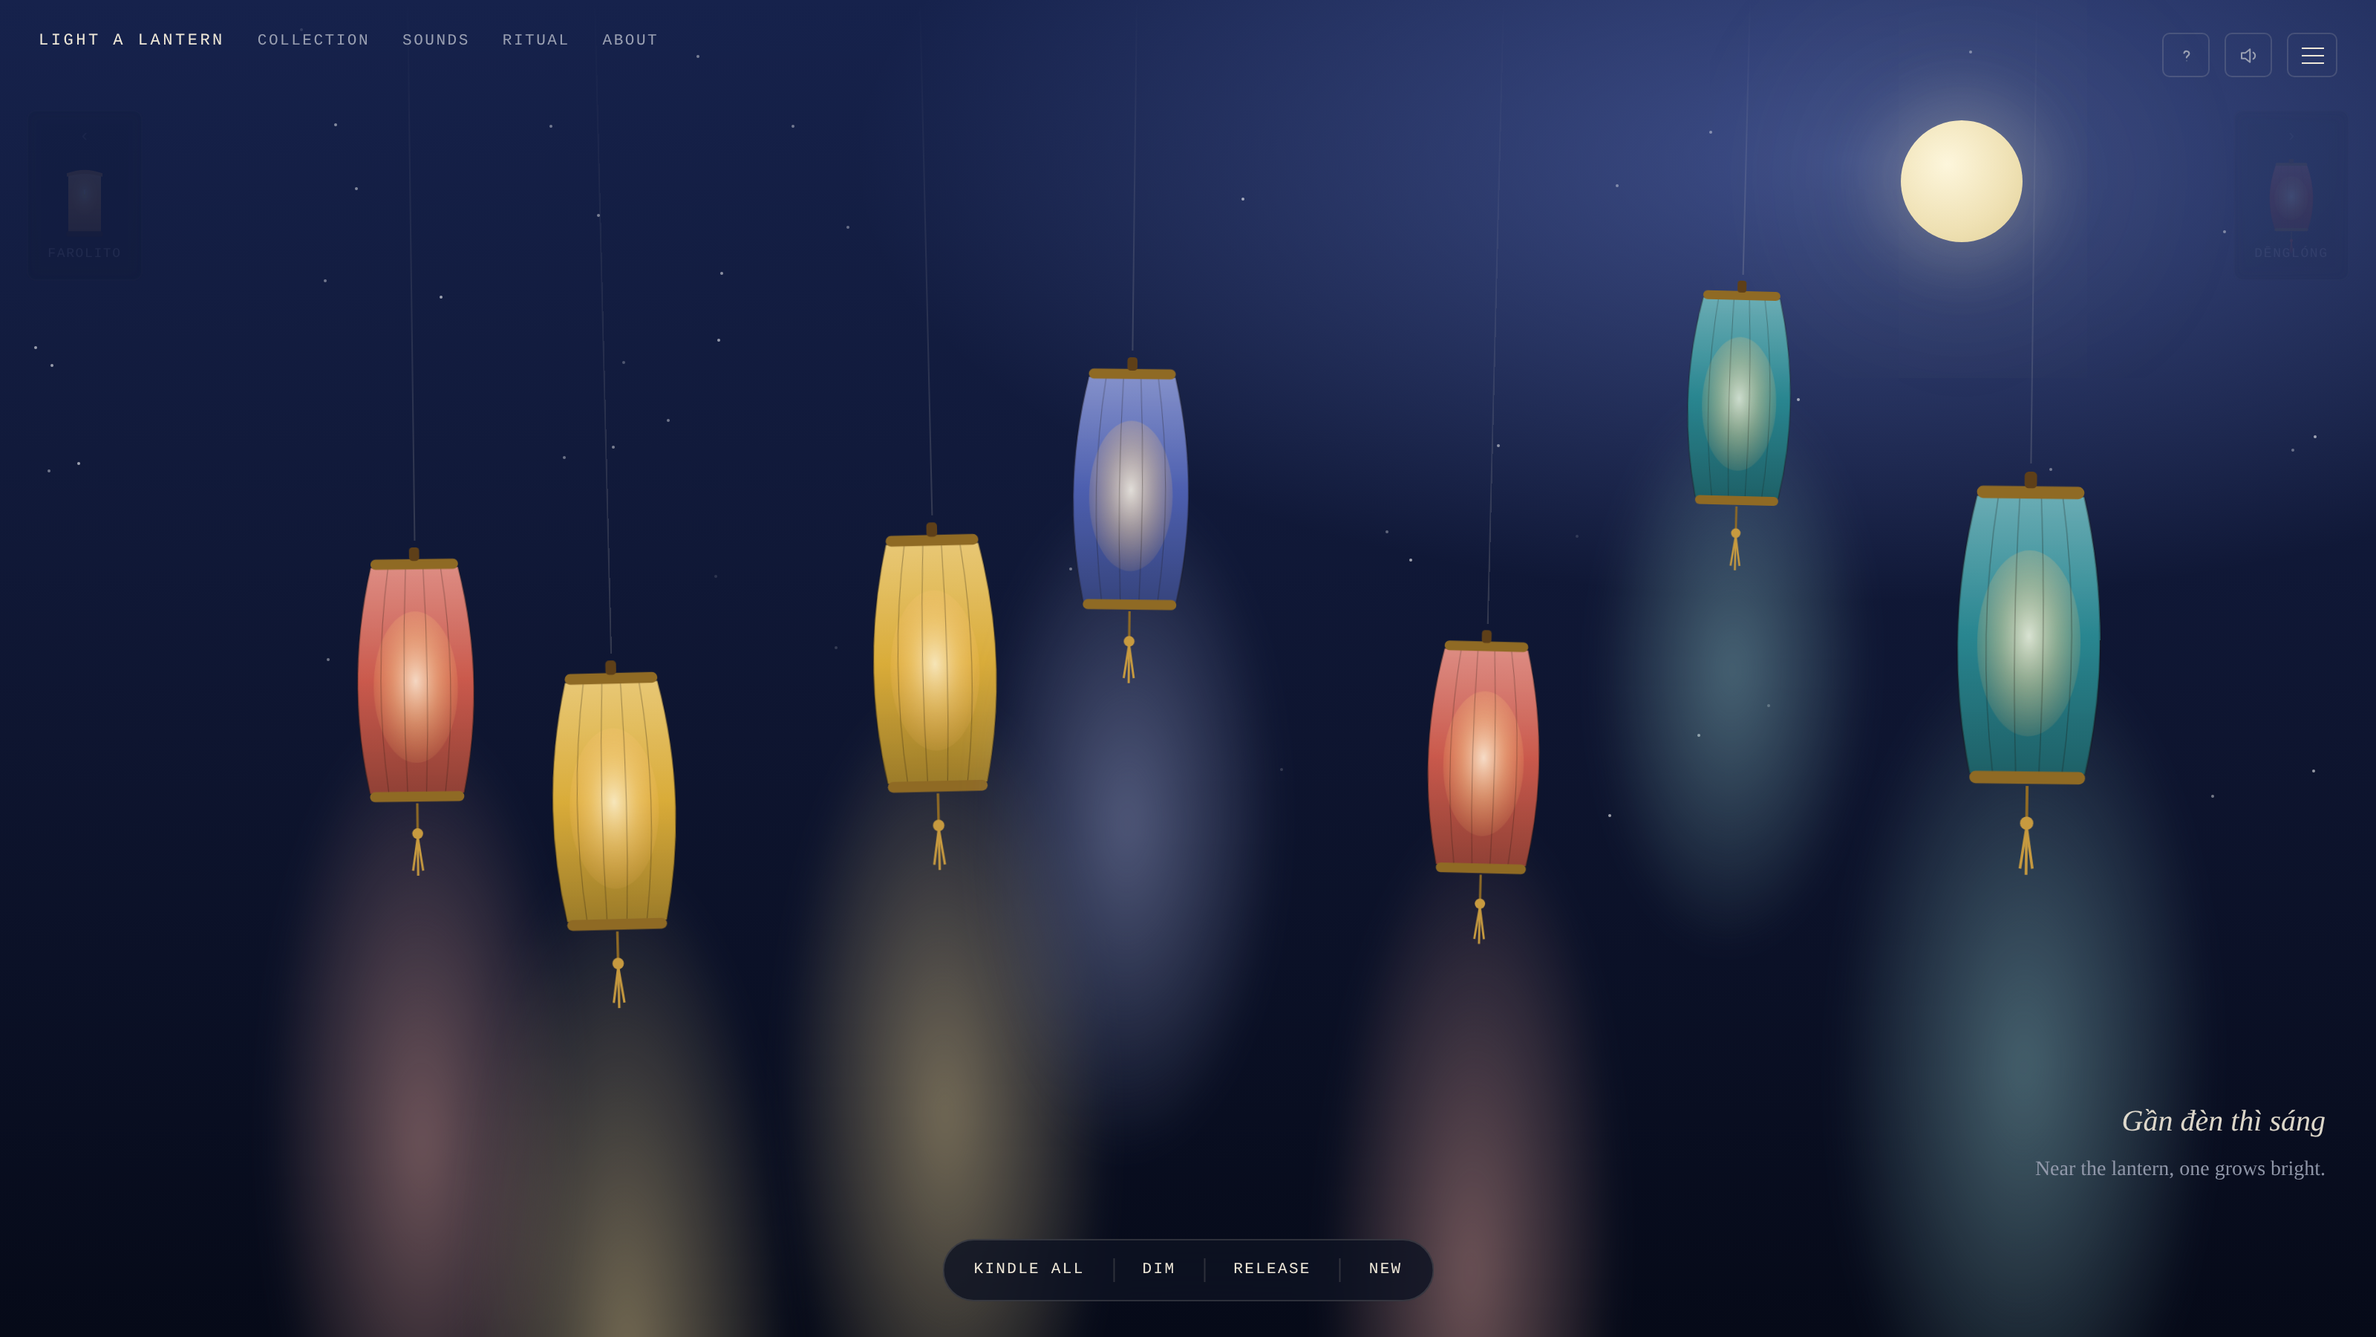
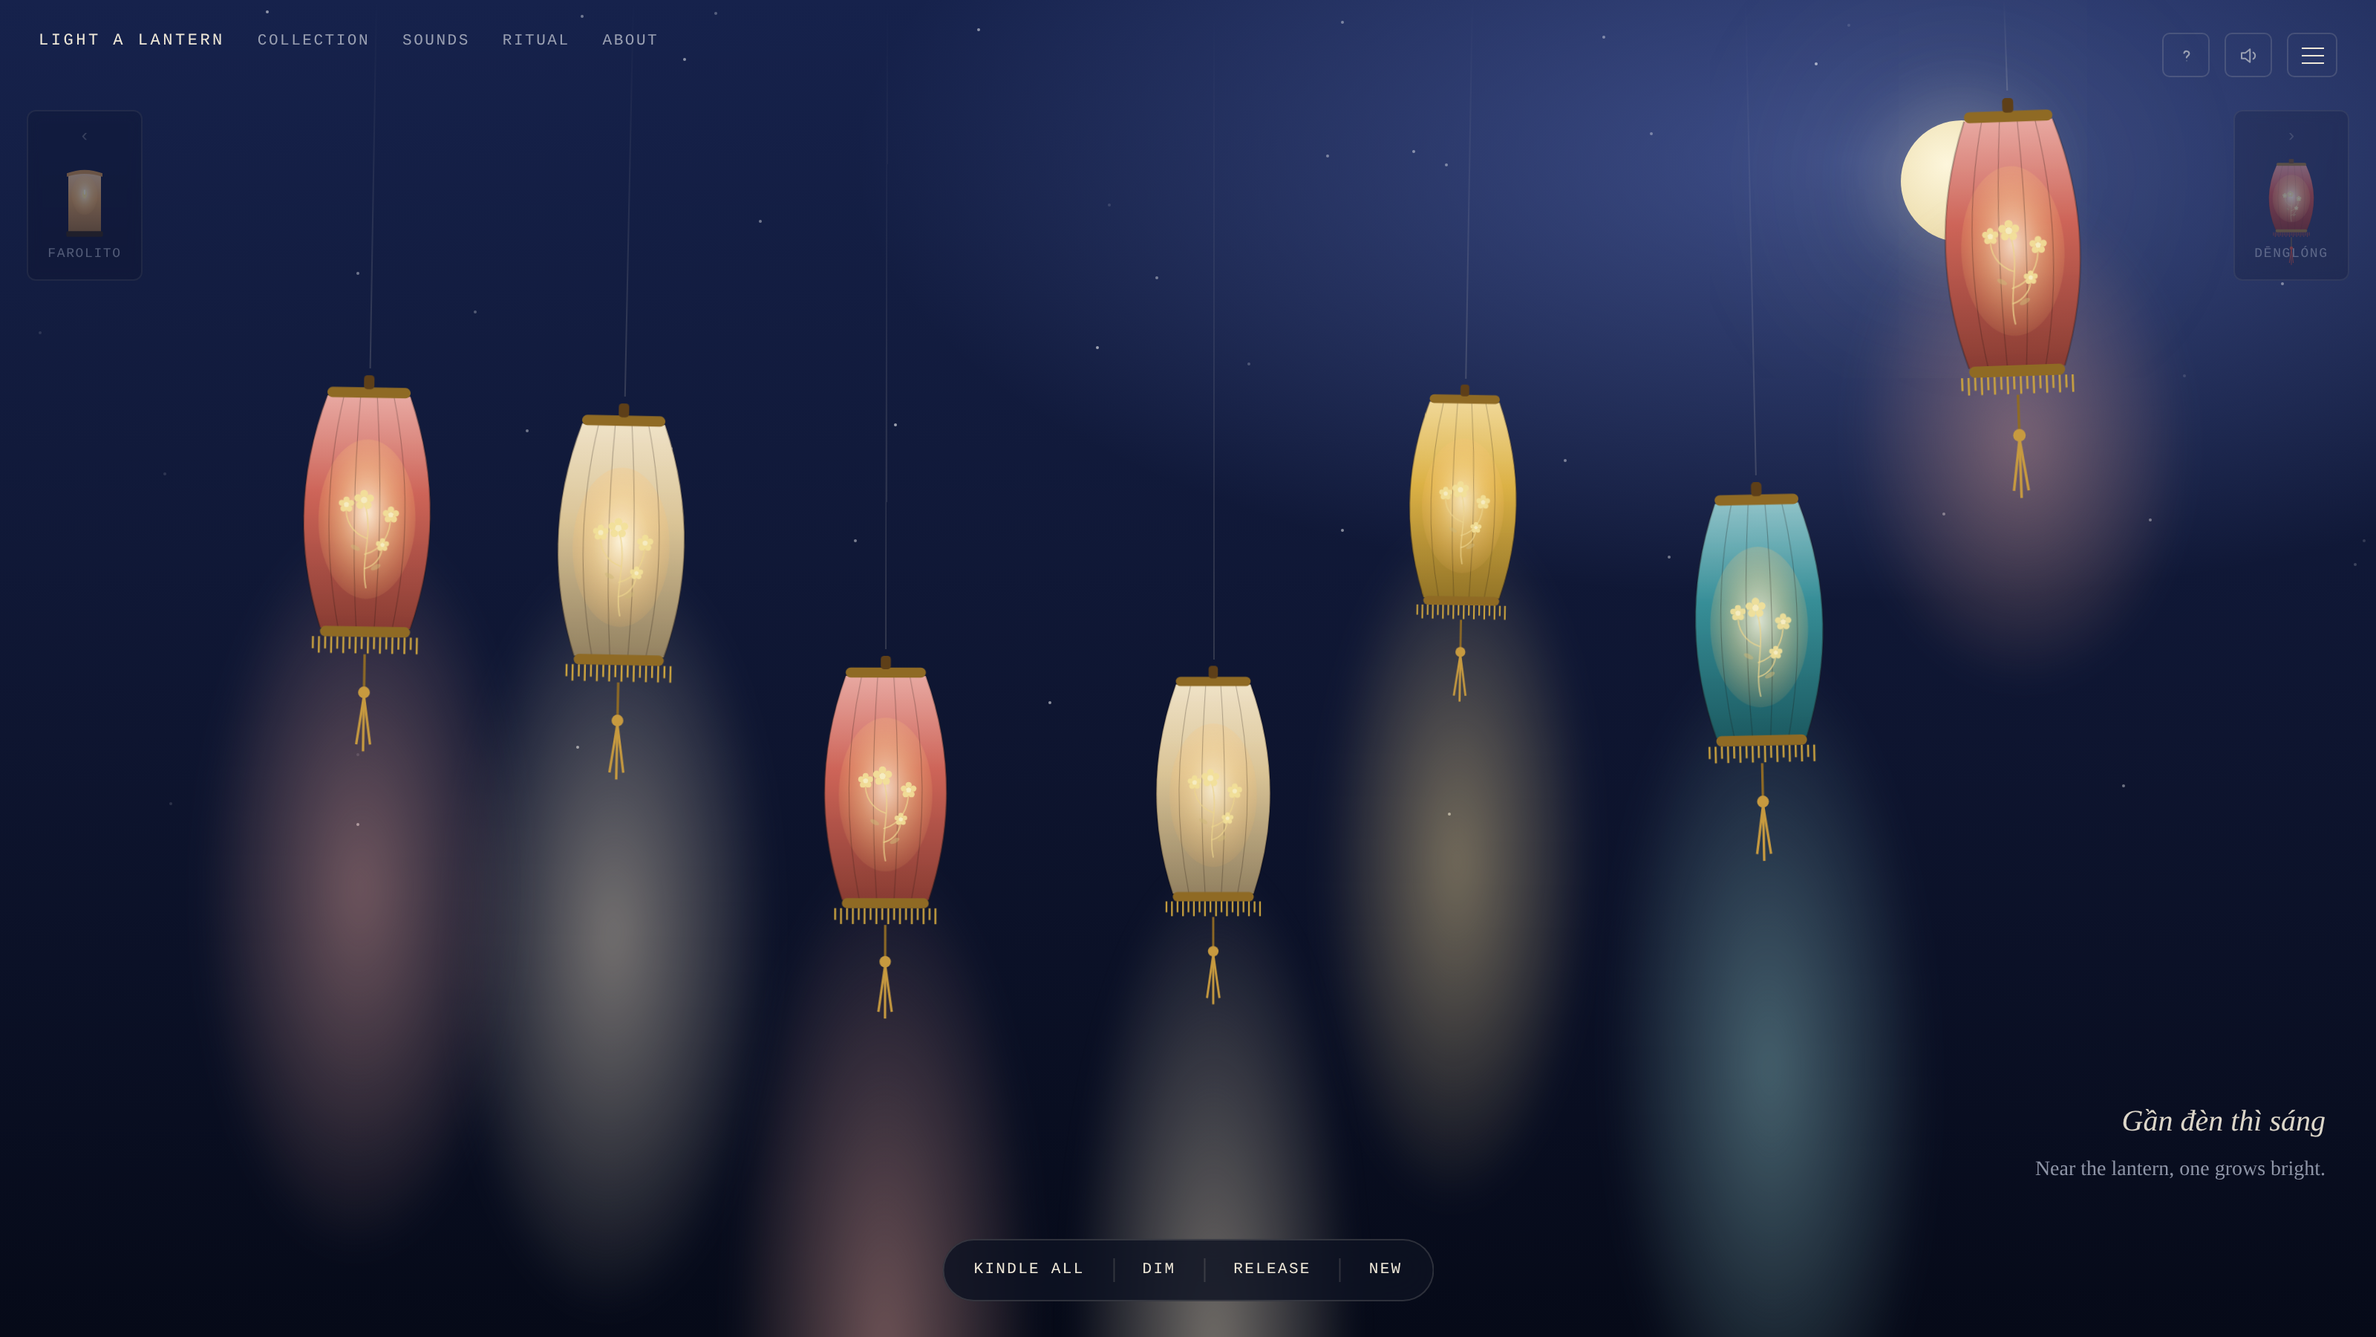
Ornate lantern pass: plump bodies, ombre, fringe, floral motifs
Reworks the silk-barrel lanterns toward a richer, decorative look:
- stronger two-tone ombre gradient (bright crown → deep saturated base)
- plumper rounded bodies (hoian, chinese, chochin, korean)
- a gold floral sprig painted on the silk (glows when lit, dims when unlit)
- a bristle fringe under the bottom cap + longer tassels

Adds shared helpers (fringe, flower, sprig) and refreshes the README hero
to show the new look. Geometric cultures keep their own silhouettes.

Claude-Session: https://claude.ai/code/session_01529QJMieJQpXzKapniX34V

diff --git a/index.html b/index.html
@@ -506,29 +506,38 @@
   let svgSeq=0;
   function lanternSVG(kind, silk){
     const id=++svgSeq, cx=60;
-    const defs = `<defs><linearGradient id="g${id}" x1="0" y1="0" x2="0" y2="1"><stop offset="0%" stop-color="${lighten(silk,28)}"/><stop offset="50%" stop-color="${silk}"/><stop offset="100%" stop-color="${darken(silk,28)}"/></linearGradient>`
+    // stronger two-tone ombre: bright warm crown fading into a deep saturated base
+    const defs = `<defs><linearGradient id="g${id}" x1="0" y1="0" x2="0" y2="1"><stop offset="0%" stop-color="${lighten(silk,44)}"/><stop offset="42%" stop-color="${lighten(silk,6)}"/><stop offset="100%" stop-color="${darken(silk,32)}"/></linearGradient>`
       + `<radialGradient id="c${id}" cx="50%" cy="46%" r="62%"><stop offset="0%" stop-color="rgba(255,247,225,0.94)"/><stop offset="45%" stop-color="rgba(255,216,150,0.5)"/><stop offset="100%" stop-color="rgba(255,180,90,0)"/></radialGradient></defs>`;
     const core=(cy,rx,ry)=>`<ellipse class="core" cx="60" cy="${cy}" rx="${rx}" ry="${ry}" fill="url(#c${id})"/>`;
     const goldCap=(x,y,w)=>`<rect x="${x}" y="${y}" width="${w}" height="6" rx="3" fill="#8f6a24"/>`;
     const barrel=(top,bot,topH,halfW,botH)=>{const mid=(top+bot)/2;return `M${cx-topH},${top} Q ${cx-halfW},${mid} ${cx-botH},${bot} L ${cx+botH},${bot} Q ${cx+halfW},${mid} ${cx+topH},${top} Z`;};
-    const vribs=(top,bot,topH,halfW,botH)=>{const mid=(top+bot)/2;let r="";[-1,-0.6,-0.2,0.2,0.6,1].forEach(f=>{r+=`<path d="M${(cx+f*topH).toFixed(1)},${top} Q ${(cx+f*halfW).toFixed(1)},${mid} ${(cx+f*botH).toFixed(1)},${bot}" fill="none" stroke="rgba(20,12,8,0.3)" stroke-width="${Math.abs(f)>0.9?0.9:0.5}"/>`;});return r;};
-    const tassel=(y,col)=>{const c=col||"#c79a3f";return `<line x1="60" y1="${y}" x2="60" y2="${y+16}" stroke="#8f6a24" stroke-width="1.4"/><circle cx="60" cy="${y+18}" r="3.2" fill="${c}"/><g stroke="${c}" stroke-width="1.3"><line x1="60" y1="${y+20}" x2="57" y2="${y+40}"/><line x1="60" y1="${y+20}" x2="60" y2="${y+43}"/><line x1="60" y1="${y+20}" x2="63" y2="${y+40}"/></g>`;};
+    const vribs=(top,bot,topH,halfW,botH)=>{const mid=(top+bot)/2;let r="";[-1,-0.6,-0.2,0.2,0.6,1].forEach(f=>{r+=`<path d="M${(cx+f*topH).toFixed(1)},${top} Q ${(cx+f*halfW).toFixed(1)},${mid} ${(cx+f*botH).toFixed(1)},${bot}" fill="none" stroke="rgba(20,12,8,0.28)" stroke-width="${Math.abs(f)>0.9?0.9:0.5}"/>`;});return r;};
+    // ornate finish — a bristle fringe under the bottom cap, then a long tassel
+    const fringe=(y,halfW,col)=>{const c=col||"#caa23e",n=Math.max(7,Math.round(halfW*0.55));let f="";for(let i=0;i<=n;i++){const fx=cx-halfW+i*(2*halfW/n),len=7+(i%2?2.5:0);f+=`<line x1="${fx.toFixed(1)}" y1="${y}" x2="${fx.toFixed(1)}" y2="${(y+len).toFixed(1)}" stroke="${c}" stroke-width="1.1"/>`;}return f;};
+    const tassel=(y,col)=>{const c=col||"#c79a3f";return `<line x1="60" y1="${y}" x2="60" y2="${y+20}" stroke="#8f6a24" stroke-width="1.4"/><circle cx="60" cy="${y+22}" r="3.4" fill="${c}"/><g stroke="${c}" stroke-width="1.4"><line x1="60" y1="${y+24}" x2="56" y2="${y+52}"/><line x1="60" y1="${y+24}" x2="60" y2="${y+56}"/><line x1="60" y1="${y+24}" x2="64" y2="${y+52}"/></g>`;};
+    // gold floral motif painted on the silk (sits under the scrim, so it dims when unlit and glows when lit)
+    const flower=(x,y,r)=>{let s="";for(let k=0;k<5;k++){const a=(k*72-90)*Math.PI/180;s+=`<circle cx="${(x+Math.cos(a)*r).toFixed(1)}" cy="${(y+Math.sin(a)*r).toFixed(1)}" r="${(r*0.6).toFixed(1)}"/>`;}return `<g fill="rgba(242,224,152,0.9)">${s}<circle cx="${x}" cy="${y}" r="${(r*0.5).toFixed(1)}" fill="#f6ecc0"/></g>`;};
+    const sprig=(mx,my,sc)=>`<g class="motif" transform="translate(${mx},${my}) scale(${sc})">`
+      +`<g fill="none" stroke="rgba(236,212,142,0.72)" stroke-width="0.9" stroke-linecap="round"><path d="M0,30 C -4,12 5,-4 -2,-25"/><path d="M-1,9 C 10,6 15,-4 15,-16"/><path d="M0,-1 C -9,-4 -14,-12 -13,-22"/><path d="M-1,18 C 6,16 10,10 10,3"/></g>`
+      +flower(-2,-25,4)+flower(15,-16,3.3)+flower(-13,-22,3.1)+flower(10,3,2.6)
+      +`<g fill="rgba(206,184,120,0.5)"><ellipse cx="6" cy="17" rx="3.4" ry="1.5" transform="rotate(-28 6 17)"/><ellipse cx="-7" cy="5" rx="3.2" ry="1.4" transform="rotate(28 -7 5)"/></g></g>`;
     let content="", vbH=216;
 
     if(kind==="round"){                       // Chinese Dēnglóng
-      const top=22,bot=150,halfW=55,topH=32,botH=34,mid=(top+bot)/2,body=barrel(top,bot,topH,halfW,botH);
-      content=`<path class="silk" d="${body}" fill="url(#g${id})"/>`+core(mid+2,34,44)+vribs(top,bot,topH,halfW,botH)
+      const top=22,bot=152,halfW=60,topH=30,botH=32,mid=(top+bot)/2,body=barrel(top,bot,topH,halfW,botH);
+      content=`<path class="silk" d="${body}" fill="url(#g${id})"/>`+core(mid+2,38,48)+vribs(top,bot,topH,halfW,botH)+sprig(60,mid+18,1.0)
         +`<path class="scrim" d="${body}" fill="#06040c"/>`
-        +goldCap(cx-topH,top-5,2*topH)+`<rect x="55" y="${top-13}" width="10" height="9" rx="2" fill="#5e3f18"/>`+goldCap(cx-botH,bot-1,2*botH)+tassel(bot+6,"#c0402b");
-      vbH=bot+56;
+        +goldCap(cx-topH,top-5,2*topH)+`<rect x="55" y="${top-13}" width="10" height="9" rx="2" fill="#5e3f18"/>`+goldCap(cx-botH,bot-1,2*botH)+fringe(bot+5,botH+4,"#c0402b")+tassel(bot+15,"#c0402b");
+      vbH=bot+76;
     } else if(kind==="chochin"){              // Japanese Chōchin (horizontal ribs)
-      const top=20,bot=170,halfW=45,topH=37,botH=37,mid=(top+bot)/2,body=barrel(top,bot,topH,halfW,botH);
+      const top=20,bot=170,halfW=50,topH=37,botH=37,mid=(top+bot)/2,body=barrel(top,bot,topH,halfW,botH);
       let rings="";for(let i=1;i<=10;i++){const y=top+i/11*(bot-top),t=(y-top)/(bot-top),ww=halfW*(1-0.26*Math.abs(1-2*t));rings+=`<path d="M${(cx-ww).toFixed(1)},${y.toFixed(1)} Q 60,${(y+2.4).toFixed(1)} ${(cx+ww).toFixed(1)},${y.toFixed(1)}" fill="none" stroke="rgba(20,12,8,0.26)" stroke-width="0.7"/>`;}
-      content=`<path class="silk" d="${body}" fill="url(#g${id})"/>`+core(mid,26,50)+rings
+      content=`<path class="silk" d="${body}" fill="url(#g${id})"/>`+core(mid,26,50)+rings+sprig(60,mid+14,0.86)
         +`<path class="scrim" d="${body}" fill="#06040c"/>`
         +`<rect x="${cx-16}" y="${top-4}" width="32" height="5" rx="2" fill="#2a1c10"/><rect x="57" y="${top-11}" width="6" height="7" rx="2" fill="#2a1c10"/>`
-        +`<rect x="${cx-14}" y="${bot-1}" width="28" height="5" rx="2" fill="#2a1c10"/>`+tassel(bot+4,"#c0402b");
-      vbH=bot+52;
+        +`<rect x="${cx-14}" y="${bot-1}" width="28" height="5" rx="2" fill="#2a1c10"/>`+fringe(bot+5,18,"#c0402b")+tassel(bot+13,"#c0402b");
+      vbH=bot+72;
     } else if(kind==="andon"){                // Japanese Andon (square wooden frame)
       const x0=cx-40,y0=24,w=80,h=144,bot=y0+h,r=`x="${x0}" y="${y0}" width="${w}" height="${h}" rx="4"`;
       content=`<rect class="silk" ${r} fill="url(#g${id})"/>`+core(y0+h/2,34,52)
@@ -537,15 +546,15 @@
         +`<rect x="${cx-30}" y="14" width="60" height="9" rx="2" fill="#2a1c10"/><rect x="${cx-46}" y="${bot}" width="92" height="9" rx="2" fill="#241a10"/>`;
       vbH=bot+16;
     } else if(kind==="korean"){               // Korean Cheongsachorong (blue/red split)
-      const top=22,bot=164,halfW=40,topH=34,botH=34,mid=(top+bot)/2,body=barrel(top,bot,topH,halfW,botH),blue="#2f5aa8",red="#c0392b";
+      const top=22,bot=164,halfW=46,topH=32,botH=32,mid=(top+bot)/2,body=barrel(top,bot,topH,halfW,botH),blue="#2f5aa8",red="#c0392b";
       content=`<defs><clipPath id="k${id}"><path d="${body}"/></clipPath>`
-        +`<linearGradient id="gb${id}" x1="0" y1="0" x2="0" y2="1"><stop offset="0%" stop-color="${lighten(blue,26)}"/><stop offset="100%" stop-color="${darken(blue,16)}"/></linearGradient>`
-        +`<linearGradient id="gr${id}" x1="0" y1="0" x2="0" y2="1"><stop offset="0%" stop-color="${lighten(red,20)}"/><stop offset="100%" stop-color="${darken(red,18)}"/></linearGradient></defs>`
+        +`<linearGradient id="gb${id}" x1="0" y1="0" x2="0" y2="1"><stop offset="0%" stop-color="${lighten(blue,30)}"/><stop offset="100%" stop-color="${darken(blue,16)}"/></linearGradient>`
+        +`<linearGradient id="gr${id}" x1="0" y1="0" x2="0" y2="1"><stop offset="0%" stop-color="${lighten(red,24)}"/><stop offset="100%" stop-color="${darken(red,18)}"/></linearGradient></defs>`
         +`<g class="silk" clip-path="url(#k${id})"><rect x="0" y="${top-2}" width="120" height="${mid-top+2}" fill="url(#gb${id})"/><rect x="0" y="${mid}" width="120" height="${bot-mid+2}" fill="url(#gr${id})"/></g>`
-        +core(mid,24,46)+vribs(top,bot,topH,halfW,botH)
+        +core(mid,24,46)+vribs(top,bot,topH,halfW,botH)+sprig(60,mid+16,0.9)
         +`<path class="scrim" d="${body}" fill="#06040c"/>`
-        +goldCap(cx-topH,top-5,2*topH)+`<rect x="57" y="${top-13}" width="6" height="9" rx="2" fill="#5e3f18"/>`+goldCap(cx-botH,bot-1,2*botH)+tassel(bot+6,"#e0c060");
-      vbH=bot+56;
+        +goldCap(cx-topH,top-5,2*topH)+`<rect x="57" y="${top-13}" width="6" height="9" rx="2" fill="#5e3f18"/>`+goldCap(cx-botH,bot-1,2*botH)+fringe(bot+5,botH+4,"#e0c060")+tassel(bot+15,"#e0c060");
+      vbH=bot+76;
     } else if(kind==="kandil"){               // Indian Kandil (8-point star)
       const cyc=94,outer=54,inner=27,pts=[];
       for(let k=0;k<16;k++){const R=k%2?inner:outer,a=(-90+k*22.5)*Math.PI/180;pts.push([(cx+R*Math.cos(a)).toFixed(1),(cyc+R*Math.sin(a)).toFixed(1)]);}
@@ -589,11 +598,11 @@
         +`<rect x="${x0-4}" y="${bot-7}" width="${w+8}" height="11" rx="3" fill="#2e2214"/>`;
       vbH=bot+12;
     } else {                                   // Hội An barrel (default)
-      const top=16,bot=150,halfW=42,topH=26,botH=28,mid=(top+bot)/2,body=barrel(top,bot,topH,halfW,botH);
-      content=`<path class="silk" d="${body}" fill="url(#g${id})"/>`+core(mid+4,25,45)+vribs(top,bot,topH,halfW,botH)
+      const top=16,bot=150,halfW=48,topH=24,botH=26,mid=(top+bot)/2,body=barrel(top,bot,topH,halfW,botH);
+      content=`<path class="silk" d="${body}" fill="url(#g${id})"/>`+core(mid+4,28,46)+vribs(top,bot,topH,halfW,botH)+sprig(60,mid+16,0.92)
         +`<path class="scrim" d="${body}" fill="#06040c"/>`
-        +goldCap(cx-topH,top-5,2*topH)+`<rect x="57" y="${top-12}" width="6" height="8" rx="2" fill="#5e3f18"/>`+goldCap(cx-botH,bot-1,2*botH)+tassel(bot+6);
-      vbH=bot+52;
+        +goldCap(cx-topH,top-5,2*topH)+`<rect x="57" y="${top-12}" width="6" height="8" rx="2" fill="#5e3f18"/>`+goldCap(cx-botH,bot-1,2*botH)+fringe(bot+5,botH+4)+tassel(bot+15);
+      vbH=bot+74;
     }
     return `<svg viewBox="0 0 120 ${vbH}" xmlns="http://www.w3.org/2000/svg" preserveAspectRatio="xMidYMin meet" aria-hidden="true">${defs}${content}</svg>`;
   }

diff --git a/CLAUDE.md b/CLAUDE.md
@@ -21,7 +21,7 @@ The whole app is one IIFE. Key concepts, in dependency order:
 
 - **`state`** — single mutable object (current `style`, active `palette`, `density`, `sway`, `bell`, `volume`, `breath`, `pace`, `sounds` Set, timer handles). `muted` is a separate module-level `let`.
 - **`STYLES`** — the registry of the **ten lantern cultures** (hoian, chinese, chochin, andon, korean, kandil, khomloi, moroccan, parol, farolito). Keep this count in sync with `STYLES` when adding one. Each entry defines `kind` (silhouette), `pal` (`[hex, hz]` pairs — each colour rings a different bell pitch), `sound` (signature soundscape), `sky` (a `SKY.*` gradient applied to `document.body.style.background`), `moon` (`{top,left,r}` — the moon glides/resizes per culture), `origin`/`note` (history shown in the Collection panel), and `proverb` (`{native, roman, en}` — a native-script saying + romanization + translation, surfaced on the scene). Adding a culture = add one `STYLES` entry (with its `proverb`) + one `styleChips` button + a `case` in `lanternSVG`, and usually a new `SKY.*` gradient.
-- **`lanternSVG(kind, silk)`** — the render engine. A `switch(kind)` builds each culture's SVG from shared helpers (`barrel`, `vribs`, `core`, `goldCap`, `tassel`). Every lantern uses three toggled layers driven by CSS: `.silk` (body), `.core` (warm inner glow, shown only when lit), `.scrim` (dark overlay dimming the whole lantern when unlit). Lit state is the `.lit` class on the `.lantern` element; `#lanterns.breathing` drives the breathing pulse. The same function renders the mini icons inside the prev/next preview cards.
+- **`lanternSVG(kind, silk)`** — the render engine. A `switch(kind)` builds each culture's SVG from shared helpers (`barrel`, `vribs`, `core`, `goldCap`, `tassel`, plus the ornate finish: `fringe` bristles, and `sprig`/`flower` for the gold floral motif painted on the silk). The `g${id}` gradient is a two-tone ombre (bright warm crown → deep saturated base). The silk-barrel cultures (hoian, round/chinese, chochin, korean) get plump bodies + a `sprig` motif + `fringe`; the geometric ones (andon, kandil, moroccan, parol, farolito) and the floating khomloi keep their own silhouettes. Every lantern uses three toggled layers driven by CSS: `.silk` (body), `.core` (warm inner glow, shown only when lit), `.scrim` (dark overlay dimming the whole lantern when unlit). Lit state is the `.lit` class on the `.lantern` element; `#lanterns.breathing` drives the breathing pulse. The same function renders the mini icons inside the prev/next preview cards.
 - **Web Audio** — `audio()` lazily creates the `AudioContext` + `master` gain (respecting the module-level `muted`). `bell()`/`gong()` are additive-partial synths; `builders.{rain,drone,chimes,night}` return `{stop()}` handles managed by `toggleSound()`. All sound is generated, never sampled.
 - **Scene** — `createLanterns()` clears `#lanterns` and lays out `state.density` lanterns in a sparse shuffled-column arrangement (`makeLantern()` builds each element, wires tap-to-light, applies per-lantern CSS custom props `--cord`/`--halo`/sway timing). `buildScene(animated)` wraps it with a smooth swap: existing lanterns get `.leaving` (drift up + fade), then after ~430ms the new set is created with `.entering` (staggered rise-in via `--in-delay`) which hands off to `.sway` on `animationend`. Pass `buildScene(false)` for an instant rebuild (used on resize); reduced-motion also skips the animation. A `sceneToken` guards against overlapping swaps.
 - **Navigation between cultures** — `applyStyle(id)` sets palette + sky + moon + signature sound + note, cross-fades the on-scene proverb via `setSceneNote(id)` (a fixed `#sceneNote` in the bottom-right, hidden below 760px), then `regenStars()` (repositions stars), `updateSwipeCards()` (fills the prev/next preview cards with a mini lit lantern + name), and `buildScene()`. Reached four ways: Collection panel chips, the on-screen **prev/next preview cards** (top corners, which idle-fade via `wakeCards()`), horizontal **swipe** on `#scene`, and **← →** arrow keys — all via `cycleStyle`. Swipe suppresses the lantern tap via `state._lastSwipe`.
